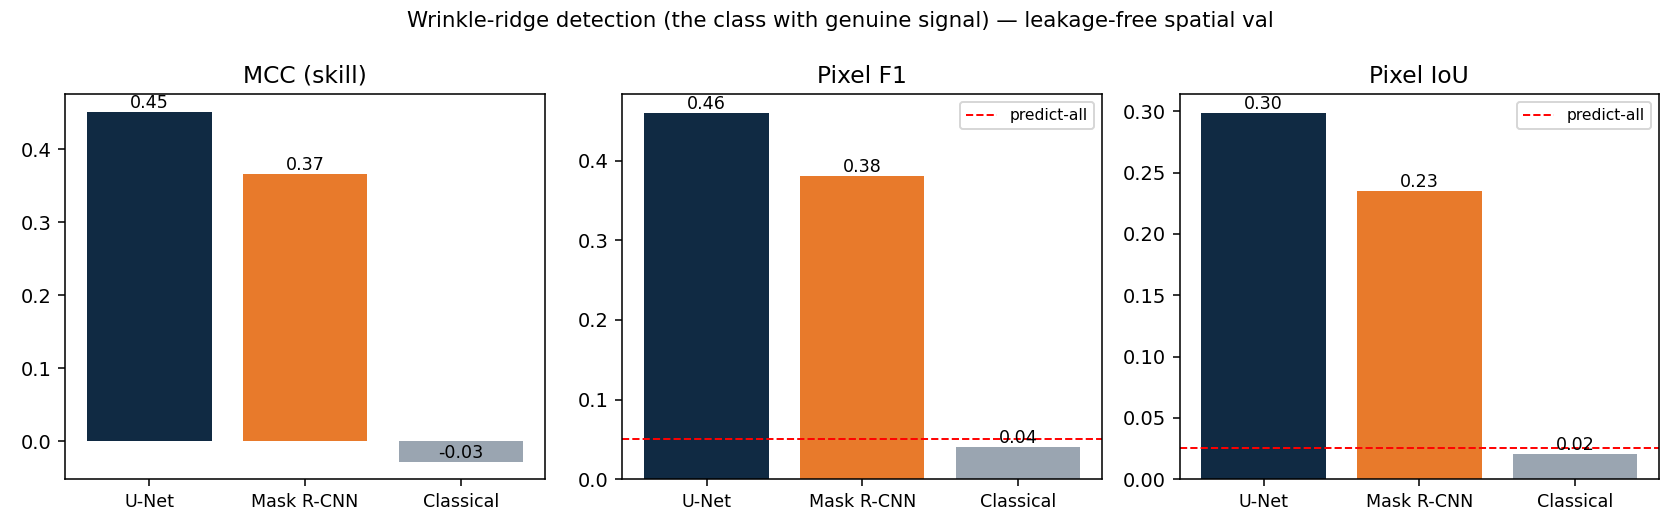
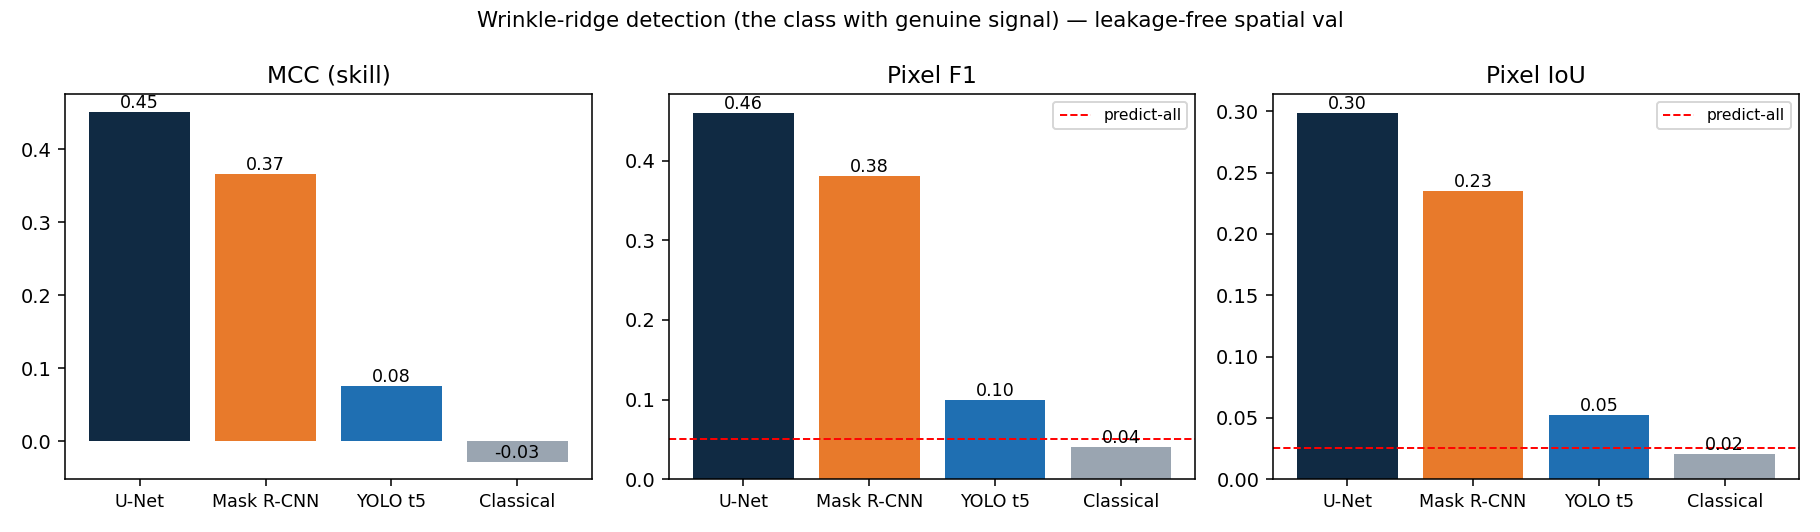
feat(comparison): add YOLO train-5 as the ridge comparison's 4th method
train-5 was trained on yolo_dataset_no_class0 (impact_crater dropped, channels
re-indexed 0..5), so its class1 — the only class its confusion matrix shows it
detecting — is wrinkle_ridge. Painting its class1 boxes as a ridge score map
(fed the same 3-channel preprocessed input its training PNGs were built from)
gives MCC 0.076 on the shared ridge protocol: positive skill, above predict-all
(0.000) and classical Sato (-0.028), below Mask R-CNN (0.366) and U-Net (0.452).

The positive MCC empirically confirms the no_class0 re-indexing; the low
precision (0.063) is representational — axis-aligned box fill cannot trace thin
diagonal linear features that pixel-level methods can. U-Net and Mask R-CNN
numbers reproduce their committed values exactly on re-run.

Ridge section, figures, and conclusions updated in COMPARISON_REPORT.md;
the comparison is now genuinely four-way (one method per author + classical).

diff --git a/Moon-Recognition/comparison/ridge_comparison.py b/Moon-Recognition/comparison/ridge_comparison.py
@@ -8,8 +8,14 @@ strongest real result. This is where a method comparison is actually meaningful.
 Protocol: leakage-free spatial val (seed=42), restricted to the 524 tiles that
 contain ridge ground truth. Every method -> binary ridge mask (channel 2 GT);
 threshold calibrated on a disjoint 40/60 calib/test split; metrics = pixel
-P/R/F1/IoU + MCC + ms/tile. YOLO is excluded (it collapsed to a single class and
-cannot produce ridge-specific output).
+P/R/F1/IoU + MCC + ms/tile.
+
+YOLO entry: the train-5 run was trained on `yolo_dataset_no_class0` (impact_crater
+channel dropped, remaining channels re-indexed 0..5), so its class1 = original
+channel 2 = wrinkle_ridge — and its confusion matrix shows class1 is the only
+class it ever detects (recall 0.18). Its class1 boxes are therefore a legitimate
+ridge detector; a positive MCC here also validates the re-index reading of
+`all_boxes_no_class0.csv` empirically.
 
   KMP_DUPLICATE_LIB_OK=TRUE python Moon-Recognition/comparison/ridge_comparison.py
 """
@@ -37,8 +43,12 @@ RIDGE_CH = CLASS_NAMES.index("wrinkle_ridge")   # 2
 # ridge AP 0.385) rather than best_trained.pth, which is an earlier crater-oriented
 # checkpoint whose ridge channel is essentially dead (max prob ~0 on ridge tiles).
 UNET_CKPT = "data/MR/results/spatial_ablation/noaug_w32_t10000_e30.pt"
+# train-5 = the 6-class no-crater run; its class1 (only detected class) = wrinkle_ridge
+YOLO_T5_CKPT = "Moon-Recognition/yolo/YOLO/runs/detect/train-5/weights/best.pt"
+YOLO_RIDGE_CLS = 1
 CALIB_FRAC, SEED = 0.40, 0
-COLORS = {"U-Net (semantic)": "#102A43", "Mask R-CNN (instance)": "#E87A2B", "Classical (Sato ridge)": "#9aa5b1"}
+COLORS = {"U-Net (semantic)": "#102A43", "Mask R-CNN (instance)": "#E87A2B",
+          "YOLOv8 train-5 (class1)": "#1F6FB2", "Classical (Sato ridge)": "#9aa5b1"}
 
 
 def unet_ridge(pred, img):
@@ -51,6 +61,25 @@ def classical_ridge(img):
     t = time.perf_counter()
     r = ridge_response_classical(g)
     return {"scoremap": r}, time.perf_counter() - t
+
+def yolo_t5_ridge(model, img):
+    # Feed the SAME input train-5 saw in training: Alireza's PNGs were the full
+    # 3-channel preprocessed npz image (normalized/CLAHE/Sobel) as HWC uint8 —
+    # not a replicated grayscale channel (cf. yolo_repr's crater-run convention).
+    rgb = np.transpose(img, (1, 2, 0))
+    rgb = (rgb * 255).clip(0, 255).astype(np.uint8) if rgb.max() <= 1.0 else rgb.clip(0, 255).astype(np.uint8)
+    t = time.perf_counter()
+    r = model.predict(rgb, verbose=False, conf=0.001)[0]
+    dt = time.perf_counter() - t
+    H, W = img.shape[1:]; sm = np.zeros((H, W), np.float32); scores = []
+    boxes = r.boxes
+    for b, s, c in zip(boxes.xyxy.cpu().numpy(), boxes.conf.cpu().numpy(), boxes.cls.cpu().numpy()):
+        if int(c) != YOLO_RIDGE_CLS:
+            continue
+        x1, y1, x2, y2 = [int(round(v)) for v in b]
+        x1, y1 = max(0, x1), max(0, y1); x2, y2 = min(W, x2), min(H, y2)
+        sm[y1:y2, x1:x2] = np.maximum(sm[y1:y2, x1:x2], s); scores.append(float(s))
+    return {"scoremap": sm, "scores": np.array(sorted(scores, reverse=True))}, dt
 
 
 def main():
@@ -83,9 +112,11 @@ def main():
                      weights_path=os.path.join(ROOT, UNET_CKPT), device=C.DEV)
     mrcnn, names, _ = maskrcnn_loader.build_and_load(os.path.join(ROOT, "data/MR/weights/best_model.pth"), device=C.DEV)
     rlab = names.index("wrinkle_ridge")
+    yolo5 = YOLO(os.path.join(ROOT, YOLO_T5_CKPT))
     methods = {
         "U-Net (semantic)":      dict(fn=lambda im: unet_ridge(unet, im),                 grid=np.round(np.arange(0.05, 0.91, 0.05), 2)),
         "Mask R-CNN (instance)": dict(fn=lambda im: C.maskrcnn_repr(mrcnn, im, rlab),       grid=np.array([0.05, 0.1, 0.2, 0.3, 0.4, 0.5, 0.6, 0.7])),
+        "YOLOv8 train-5 (class1)": dict(fn=lambda im: yolo_t5_ridge(yolo5, im),            grid=np.array([0.005, 0.01, 0.02, 0.05, 0.1, 0.2, 0.3, 0.5])),
         "Classical (Sato ridge)": dict(fn=lambda im: classical_ridge(im),                  grid=np.round(np.arange(0.05, 0.61, 0.05), 2)),
     }
 
@@ -113,12 +144,12 @@ def main():
 
     # figure: metric bars + qualitative
     mp = out.set_index("method")
-    order = ["U-Net (semantic)", "Mask R-CNN (instance)", "Classical (Sato ridge)"]
-    fig, axes = plt.subplots(1, 3, figsize=(12, 3.8))
+    order = ["U-Net (semantic)", "Mask R-CNN (instance)", "YOLOv8 train-5 (class1)", "Classical (Sato ridge)"]
+    fig, axes = plt.subplots(1, 3, figsize=(13, 3.8))
     for ax, metric, ttl in zip(axes, ["mcc", "f1", "iou"], ["MCC (skill)", "Pixel F1", "Pixel IoU"]):
         ax.bar(range(len(order)), [mp.loc[m, metric] for m in order],
                color=[COLORS[m] for m in order])
-        ax.set_xticks(range(len(order))); ax.set_xticklabels(["U-Net", "Mask R-CNN", "Classical"], fontsize=9)
+        ax.set_xticks(range(len(order))); ax.set_xticklabels(["U-Net", "Mask R-CNN", "YOLO t5", "Classical"], fontsize=9)
         ax.set_title(ttl)
         if metric != "mcc":
             ax.axhline(mp.loc["Predict-all (baseline)", metric], color="red", ls="--", lw=1, label="predict-all")
@@ -133,13 +164,14 @@ def main():
     areas = [(i, gt.sum()) for i, (_, gt) in enumerate(test_imgs)]
     pick = [i for i, _ in sorted(areas, key=lambda x: -x[1])[:3]]
     taus = {r["method"]: r["tau"] for r in rows_out}
-    cols = ["Tile", "GT ridge", "U-Net", "Mask R-CNN", "Classical"]
+    cols = ["Tile", "GT ridge", "U-Net", "Mask R-CNN", "YOLO t5", "Classical"]
     fig, axes = plt.subplots(3, len(cols), figsize=(2.1 * len(cols), 6.3))
     for r, i in enumerate(pick):
         img, gt = test_imgs[i]
         panels = [img[0], gt,
                   C.binmask_at(unet_ridge(unet, img)[0], taus["U-Net (semantic)"]),
                   C.binmask_at(C.maskrcnn_repr(mrcnn, img, rlab)[0], taus["Mask R-CNN (instance)"]),
+                  C.binmask_at(yolo_t5_ridge(yolo5, img)[0], taus["YOLOv8 train-5 (class1)"]),
                   C.binmask_at(classical_ridge(img)[0], taus["Classical (Sato ridge)"])]
         for c, (ttl, p) in enumerate(zip(cols, panels)):
             ax = axes[r, c]; ax.imshow(p, cmap="gray" if c == 0 else "viridis"); ax.set_xticks([]); ax.set_yticks([])

diff --git a/Moon-Recognition/comparison/COMPARISON_REPORT.md b/Moon-Recognition/comparison/COMPARISON_REPORT.md
@@ -73,19 +73,21 @@ The flip is unambiguous: **Mask R-CNN** leads on sparse tiles (the only method w
 
 ## 5. Wrinkle-ridge — the class that actually has signal
 
-`impact_crater` is saturated (§3), so it cannot discriminate methods. `wrinkle_ridge` is the opposite — sparse (~0.6 % globally, ~2.6 % on the 524 ridge-bearing val tiles) and the report's strongest genuine result. **This is where the comparison is meaningful.** Evaluated on the ridge-bearing spatial-val tiles (210 calib / 314 test, own-threshold calibration). YOLO is excluded: it collapsed to a single class and produces no ridge output. The U-Net here is the report's definitive spatial checkpoint (`noaug_w32_t10000_e30.pt`, the residual `+both` config).
+`impact_crater` is saturated (§3), so it cannot discriminate methods. `wrinkle_ridge` is the opposite — sparse (~0.6 % globally, ~2.6 % on the 524 ridge-bearing val tiles) and the report's strongest genuine result. **This is where the comparison is meaningful.** Evaluated on the ridge-bearing spatial-val tiles (210 calib / 314 test, own-threshold calibration). The U-Net here is the report's definitive spatial checkpoint (`noaug_w32_t10000_e30.pt`, the residual `+both` config). The YOLO entry is the **train-5** run: it was trained on `yolo_dataset_no_class0` (crater dropped, channels re-indexed), so its `class1` — the only class it ever detects — is `wrinkle_ridge`; its boxes are painted as a ridge score map, fed the same 3-channel input its training PNGs used.
 
 | Method | F1 | IoU | **MCC** | Precision | Recall | ms/tile | τ |
 |---|---|---|---|---|---|---|---|
-| **U-Net** (semantic) | 0.460 | 0.299 | **0.452** | 0.527 | 0.409 | 15 | 0.25 |
-| **Mask R-CNN** (instance) | 0.380 | 0.235 | **0.366** | 0.414 | 0.352 | 920 | 0.50 |
-| **Classical** (Sato ridge) | 0.040 | 0.020 | **−0.028** | 0.021 | 0.392 | 28 | — |
+| **U-Net** (semantic) | 0.460 | 0.299 | **0.452** | 0.527 | 0.409 | 20 | 0.25 |
+| **Mask R-CNN** (instance) | 0.380 | 0.235 | **0.366** | 0.414 | 0.352 | 1130 | 0.50 |
+| **YOLOv8 train-5** (detection) | 0.099 | 0.052 | **0.076** | 0.063 | 0.228 | 10 | 0.01 |
+| **Classical** (Sato ridge) | 0.040 | 0.020 | **−0.028** | 0.021 | 0.392 | 29 | — |
 | *Predict-all (baseline)* | 0.050 | 0.026 | 0.000 | 0.026 | 1.000 | 0 | — |
 
 The conclusion **flips versus crater**:
-- **The U-Net is the best method on ridges** (MCC 0.452, F1 0.460) and ~60× faster than Mask R-CNN. So the U-Net is *not* skill-less — on the saturated crater class nothing can be (§3), but on the class with genuine signal it wins. `fig_ridge_qualitative.png` shows it recovering ridge topology most completely.
+- **The U-Net is the best method on ridges** (MCC 0.452, F1 0.460) and ~55× faster than Mask R-CNN. So the U-Net is *not* skill-less — on the saturated crater class nothing can be (§3), but on the class with genuine signal it wins. `fig_ridge_qualitative.png` shows it recovering ridge topology most completely.
 - **Mask R-CNN is a close, genuine second** (MCC 0.366).
-- **Both deep methods crush the classical Sato baseline** (MCC −0.028, no better than chance) and the predict-all baseline. Ridges are too subtle and variable for a fixed ridge filter — classical fires on crater rims and texture everywhere (`fig_ridge_qualitative.png`, right column). See also `fig_ridge_metrics.png`.
+- **YOLO train-5 has real but weak ridge skill** (MCC 0.076 — positive, unlike classical). Its positive score doubles as empirical confirmation of the `no_class0` re-indexing (a wrong label mapping would score ≈0). The weakness is representational, not just training: axis-aligned box fill is a poor match for thin diagonal linear features (precision 0.063), whereas the pixel-level methods can trace them. A four-way task-type lesson in one row.
+- **All three learned methods beat the classical Sato baseline** (MCC −0.028, no better than chance) and the predict-all baseline. Ridges are too subtle and variable for a fixed ridge filter — classical fires on crater rims and texture everywhere (`fig_ridge_qualitative.png`, right column). See also `fig_ridge_metrics.png`.
 
 This is the headline of the whole comparison: **on the only class with real signal, the learned models clearly beat the classical baseline, and the simple semantic U-Net edges out the heavier instance model at 1/60th the cost.**
 
@@ -107,7 +109,7 @@ Only the third row reproduces Table 12's signature. **Table 12 was produced by t
 - **Mask R-CNN is the only method with clear skill on sparse tiles** (MCC 0.187) — it genuinely localizes craters — but **~90× slower** (≈920 ms/tile vs ~10) and out-of-distribution on dense tiles (MCC −0.111), where its instance prep was never meant to operate.
 - **YOLOv8** is the strongest on the dense majority (MCC 0.240) and a solid speed/accuracy compromise on sparse tiles (MCC 0.159 at 10 ms/tile), though it over-detects at low confidence (count MAE 106 on sparse).
 - **The classical baseline beats the U-Net on sparse tiles** (MCC 0.069 vs ≈0) at 1 ms/tile and fully interpretable. That a 30-line OpenCV function out-discriminates the trained U-Net there is a genuine result, not a throwaway.
-- **The answer depends on the class, and that *is* the finding.** On the saturated crater channel no method beats the base rate (§3–4). On `wrinkle_ridge`, the class with genuine signal, the **U-Net wins (MCC 0.45) > Mask R-CNN (0.37) ≫ classical (≈0)** and both deep models crush the baseline (§5). Reporting one global "best model" would be wrong both ways.
+- **The answer depends on the class, and that *is* the finding.** On the saturated crater channel no method beats the base rate (§3–4). On `wrinkle_ridge`, the class with genuine signal, the **U-Net wins (MCC 0.45) > Mask R-CNN (0.37) ≫ YOLO train-5 (0.08) > classical (≈0)** — every learned method beats the classical baseline, and pixel-level methods beat box-level ones on linear features (§5). Reporting one global "best model" would be wrong both ways.
 - **Best method also depends on crater density (regime flip).** Sparse crater (1–20 %): Mask R-CNN > YOLO > Classical > U-Net ≈ chance. Dense (≥20 %): YOLO > Classical > U-Net ≈ chance > Mask R-CNN (negative). No method dominates everywhere — the right framing is per-class and per-regime, not one leaderboard.
 - **Trade-off summary:** accuracy (MCC) is class/regime-dependent (above); speed → Classical (1 ms) ≈ YOLO ≈ U-Net (~10–15 ms) ≫ Mask R-CNN (~920 ms, ~60–90×); interpretability → Classical > the rest. On ridges specifically, the U-Net is both the most accurate *and* far cheaper than Mask R-CNN.
 
@@ -125,7 +127,7 @@ Only the third row reproduces Table 12's signature. **Table 12 was produced by t
 
 1. The comparison framework here **is** the "organic comparison" the professor asked for: one split, one reduction, one metric set, a trivial baseline to calibrate claims, and per-class/per-regime breakdowns.
 2. **Lead with MCC / skill-over-baseline, not F1/IoU** — otherwise the report repeats the base-rate mistake.
-3. **Structure the comparison by class.** Crater = saturated → nobody beats base rate (a finding, not a failure). `wrinkle_ridge` = real signal → U-Net (MCC 0.45) > Mask R-CNN (0.37) ≫ classical/baseline, at 1/60th Mask R-CNN's cost. This is the defensible head-to-head, and it *vindicates* the U-Net rather than apologising for its crater numbers.
+3. **Structure the comparison by class.** Crater = saturated → nobody beats base rate (a finding, not a failure). `wrinkle_ridge` = real signal → U-Net (MCC 0.45) > Mask R-CNN (0.37) ≫ YOLO train-5 (0.08) > classical/baseline, at a fraction of Mask R-CNN's cost. This is the defensible head-to-head — now genuinely four-way, one method per teammate plus the classical anchor — and it *vindicates* the U-Net rather than apologising for its crater numbers.
 4. There is now a real **classical baseline** (crater: morphology; ridge: Sato) to anchor the comparison — and the learned models clearly beat it where it matters.
 
 ## 9. Reproduce
